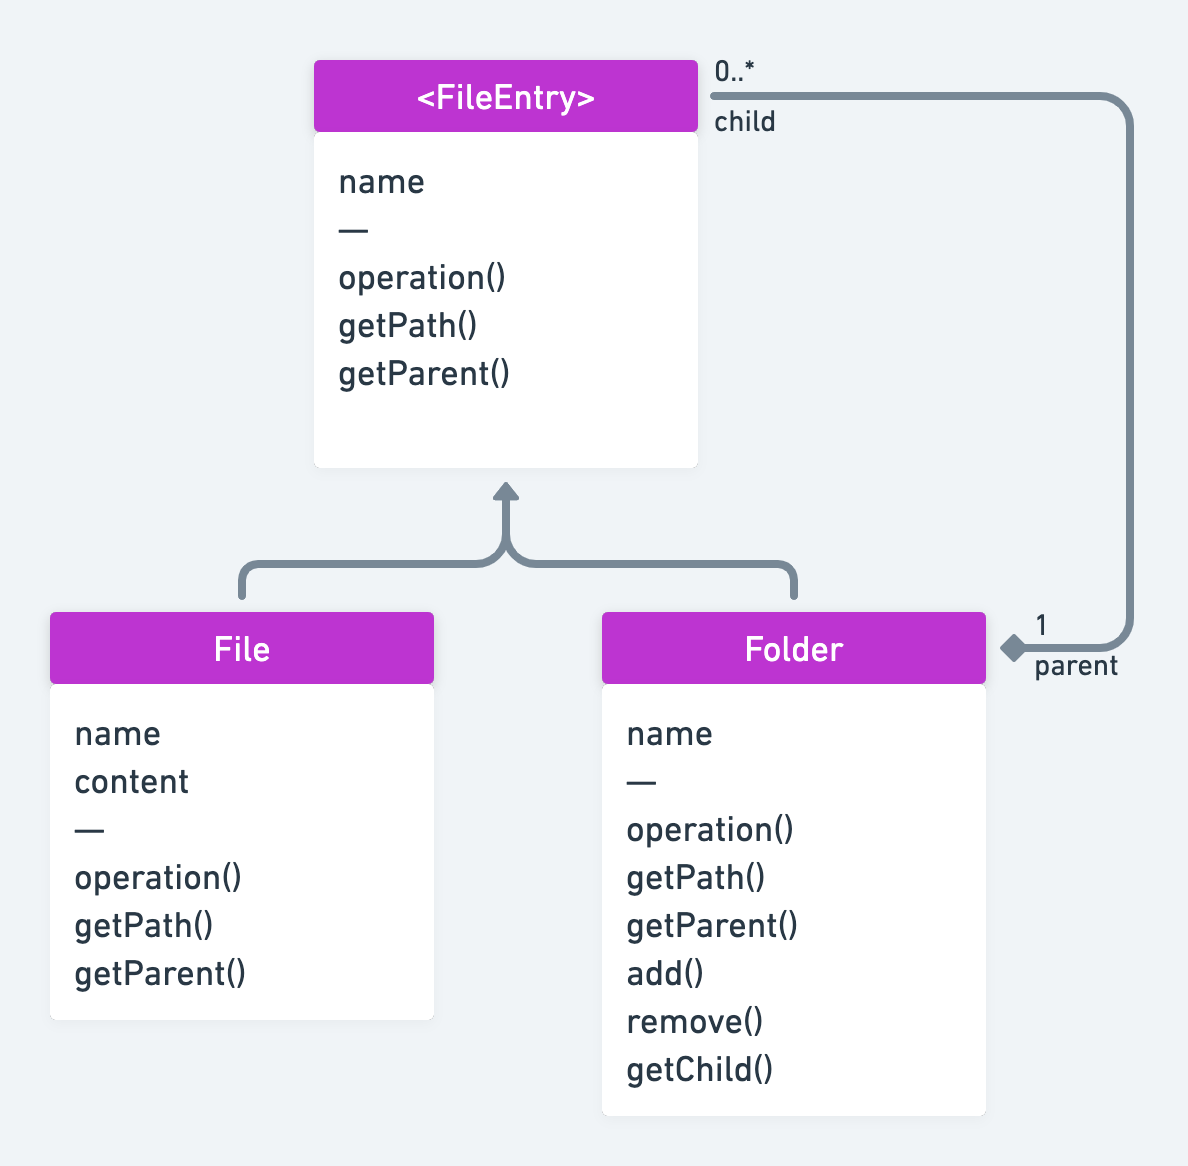
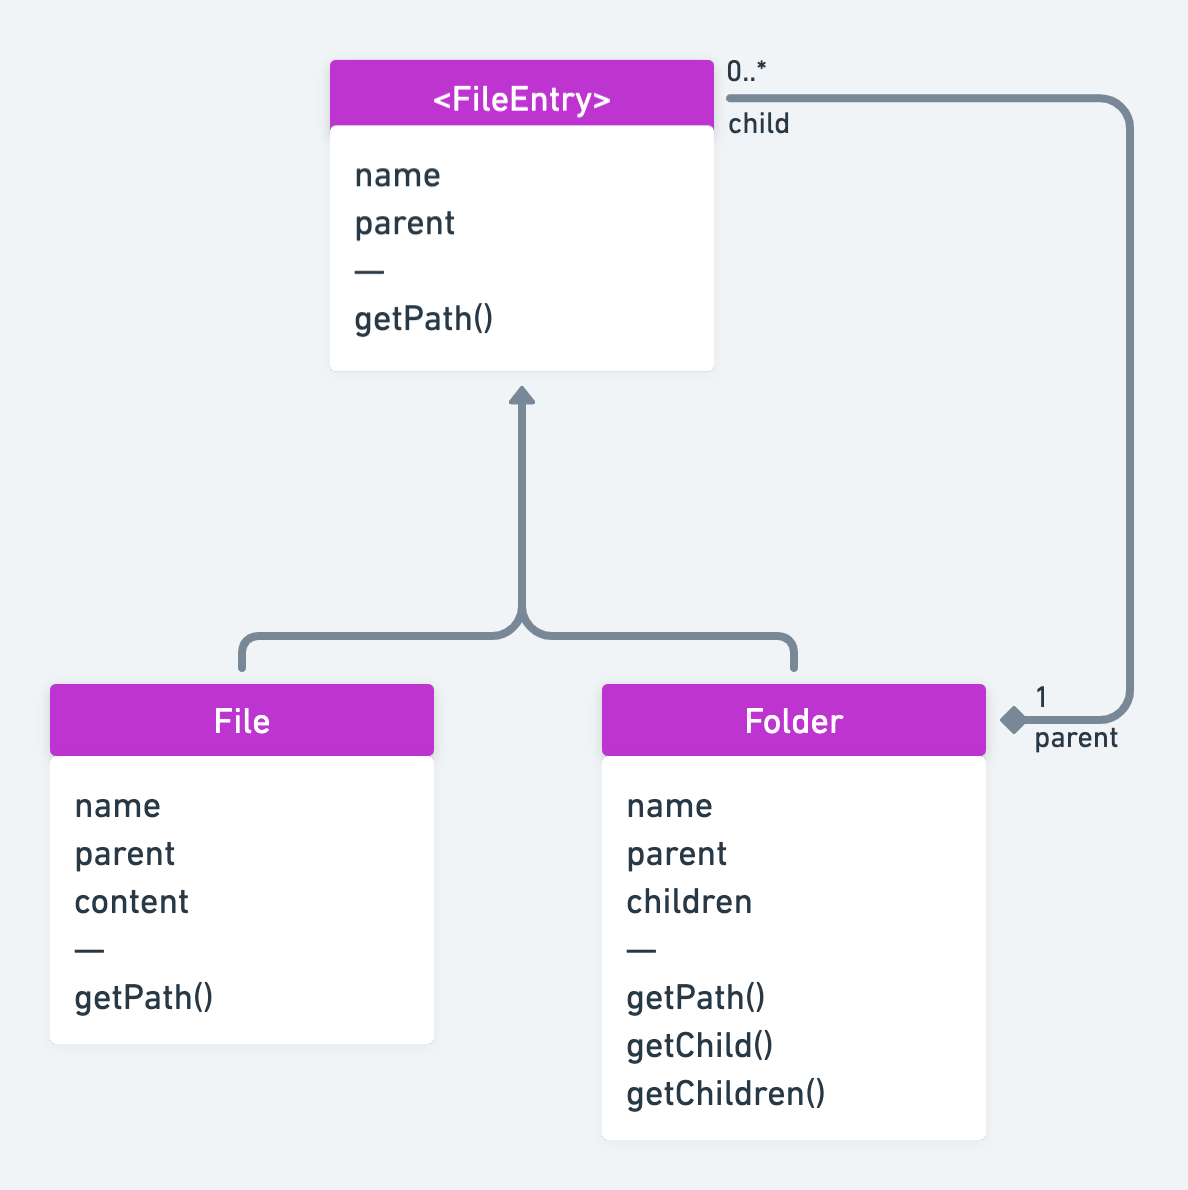
feat: domain 추가 FileEntry, Folder, File

Changed region(s): [[0.0311, 0.0309, 0.9655, 0.9262]]

diff --git a/src/domains/Folder.ts b/src/domains/Folder.ts
@@ -1,0 +1,21 @@
+import { FileEntry } from "./FileEntry";
+
+type FolderChildren = {
+  [key: string]: FileEntry;
+};
+export class Folder extends FileEntry {
+  constructor(
+    name: string,
+    parent: FileEntry | null,
+    public children: FolderChildren
+  ) {
+    super(name, parent);
+  }
+
+  getChild(name: string): FileEntry | null {
+    return this.children[name] ?? null;
+  }
+  getChildren() {
+    return Object.values(this.children);
+  }
+}

diff --git a/src/domains/FileEntry.ts b/src/domains/FileEntry.ts
@@ -1,0 +1,9 @@
+export abstract class FileEntry {
+  constructor(public name: string, public parent: FileEntry | null) {}
+
+  getPath(): string {
+    const ROOT_PATH = "/";
+    if (!this.parent) return ROOT_PATH;
+    return `${this.parent.getPath()}/${this.name}`;
+  }
+}

diff --git a/src/domains/File.ts b/src/domains/File.ts
@@ -1,0 +1,7 @@
+import { FileEntry } from "./FileEntry";
+
+export class File extends FileEntry {
+  constructor(name: string, parent: FileEntry | null, public content: string) {
+    super(name, parent);
+  }
+}
